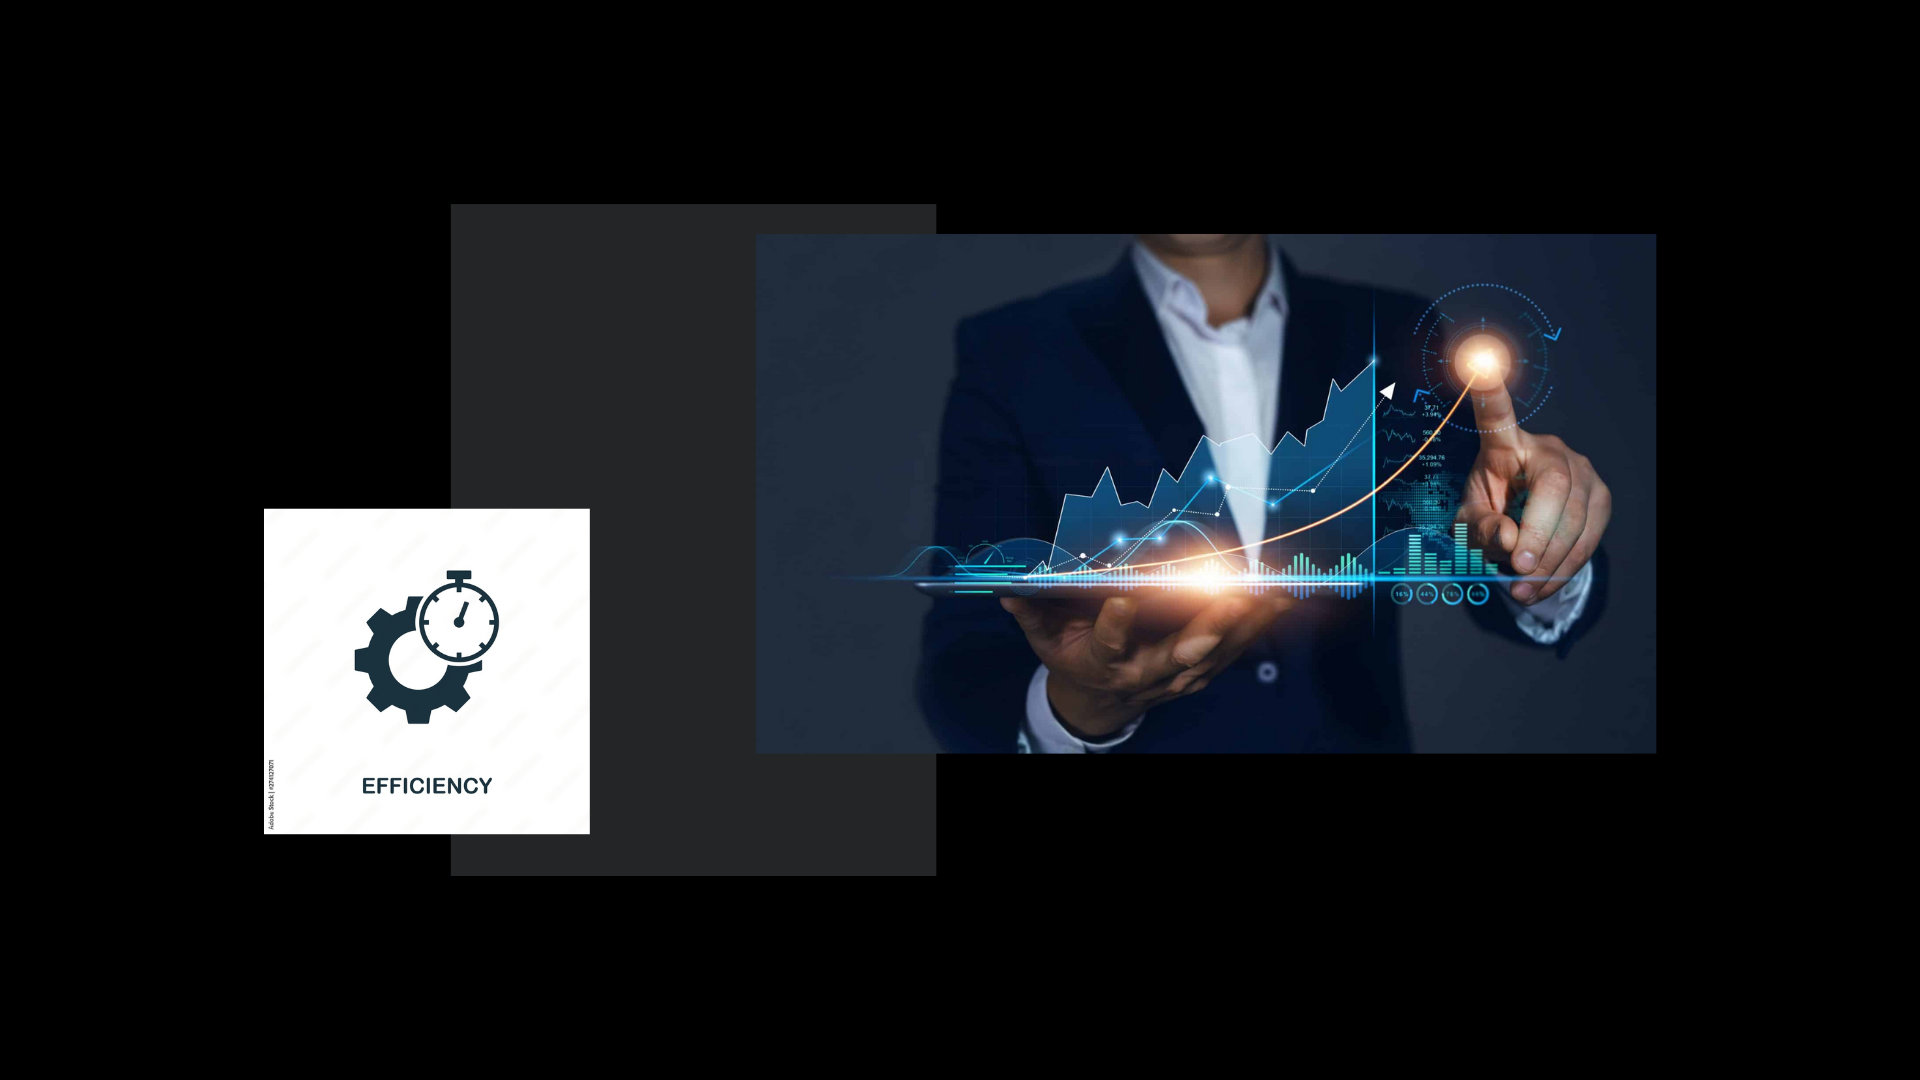
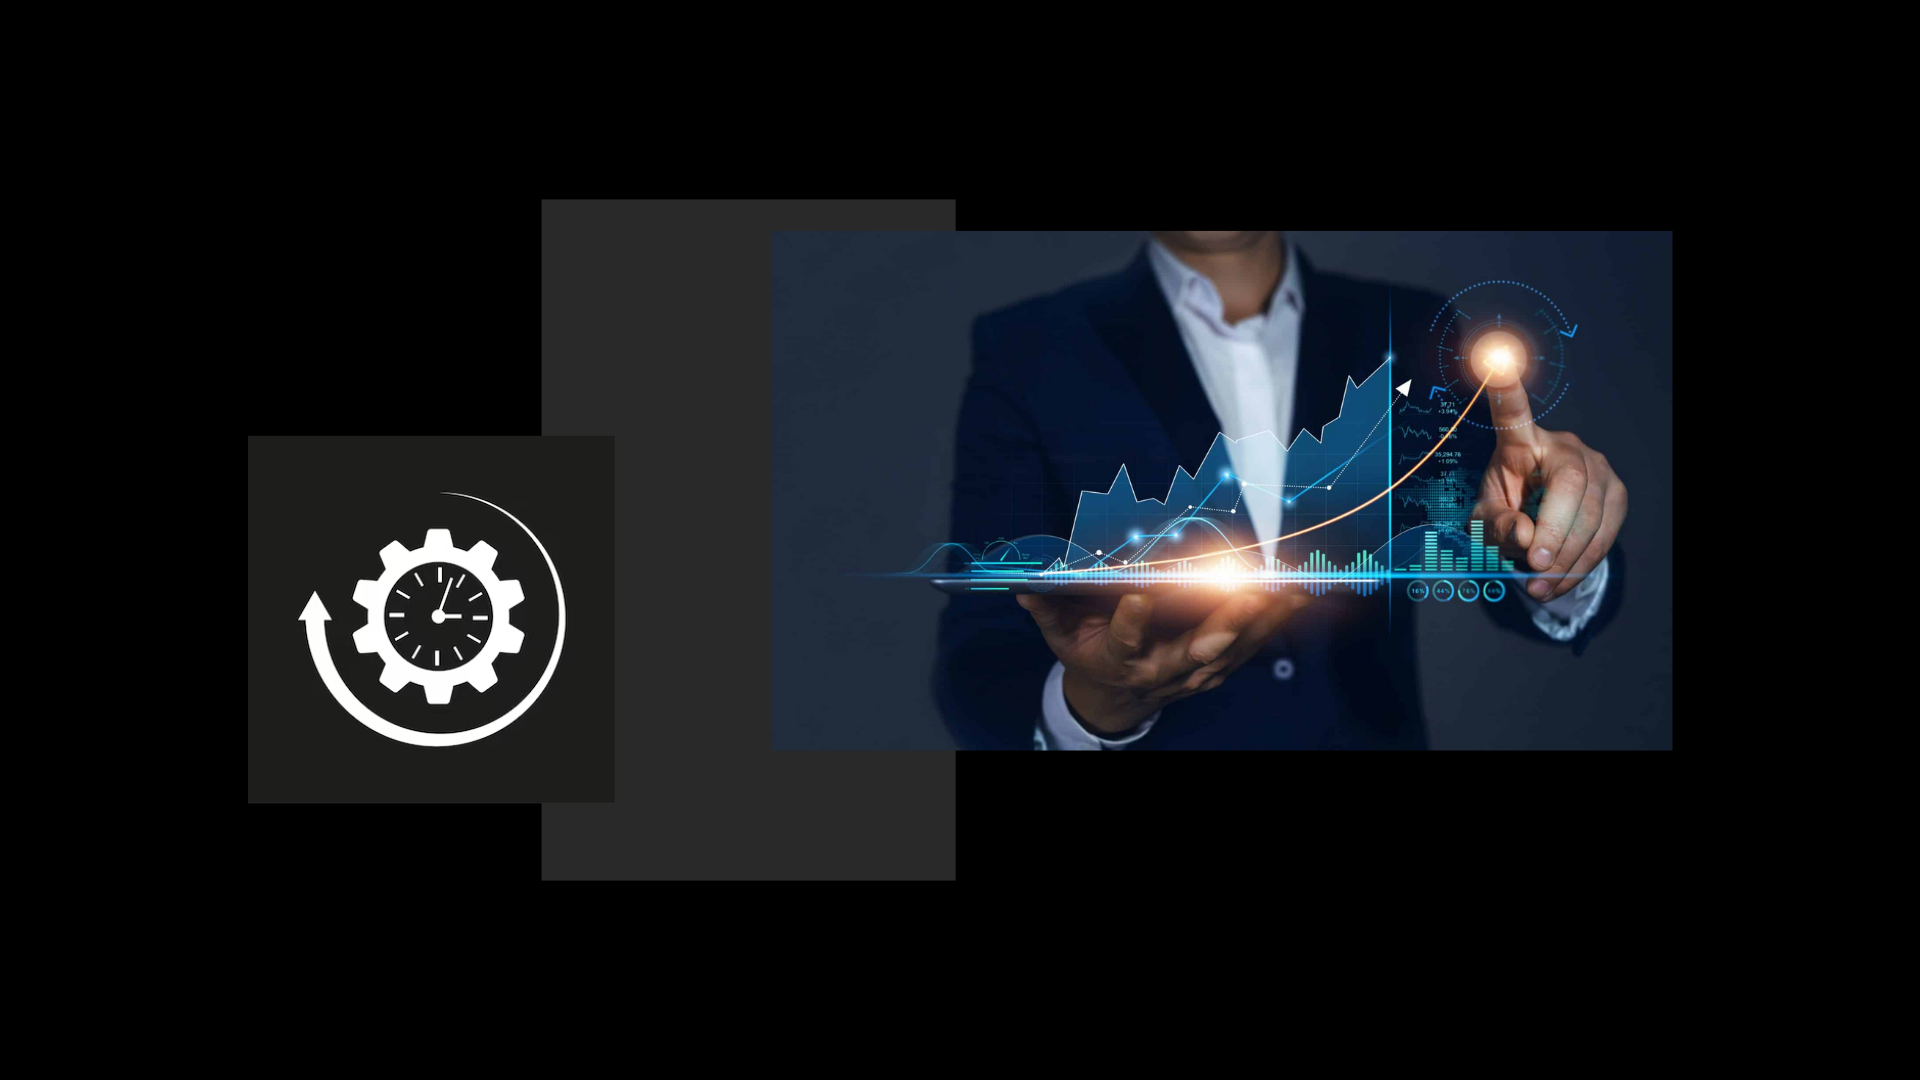
did the picture part with the description of the quality of our AI models and added some images for a better description

Changed region(s): [[0.125, 0.1833, 0.875, 0.825], [0.5, 0.3056, 0.5312, 0.3361]]

diff --git a/webcup/src/Components/onirix/Onirix.js b/webcup/src/Components/onirix/Onirix.js
@@ -24,7 +24,7 @@ export default function Onirix() {
                 <p>Les créateurs d'Onirix ont cherché à maximiser son efficacité en utilisant des techniques innovantes pour améliorer sa vitesse de traitement et sa capacité à traiter des données de manière rapide et précise.
                     Ils ont optimisé les algorithmes d'Onirix pour minimiser le temps de réponse et ont utilisé des outils avancés pour accélérer la vitesse de traitement.</p>
                 <div className="bg-shape"></div>
-                <img src="/part_three.jpeg" alt=""/>
+                <img src="/part_three.png" alt=""/>
             </div>            
         </div>
     )
